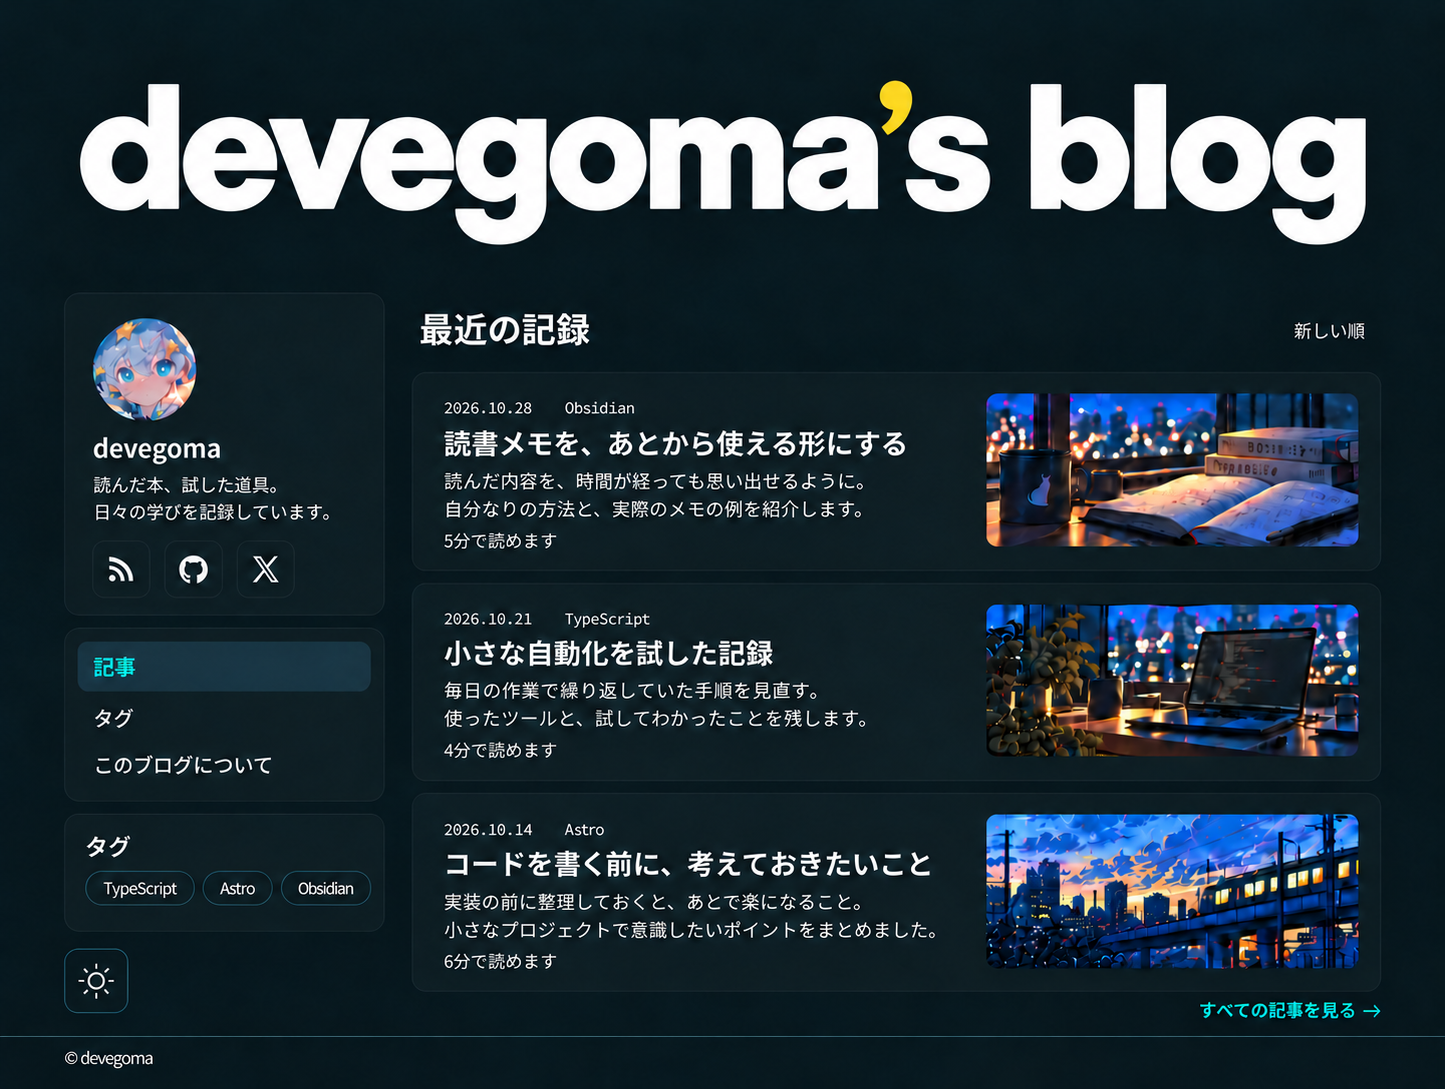
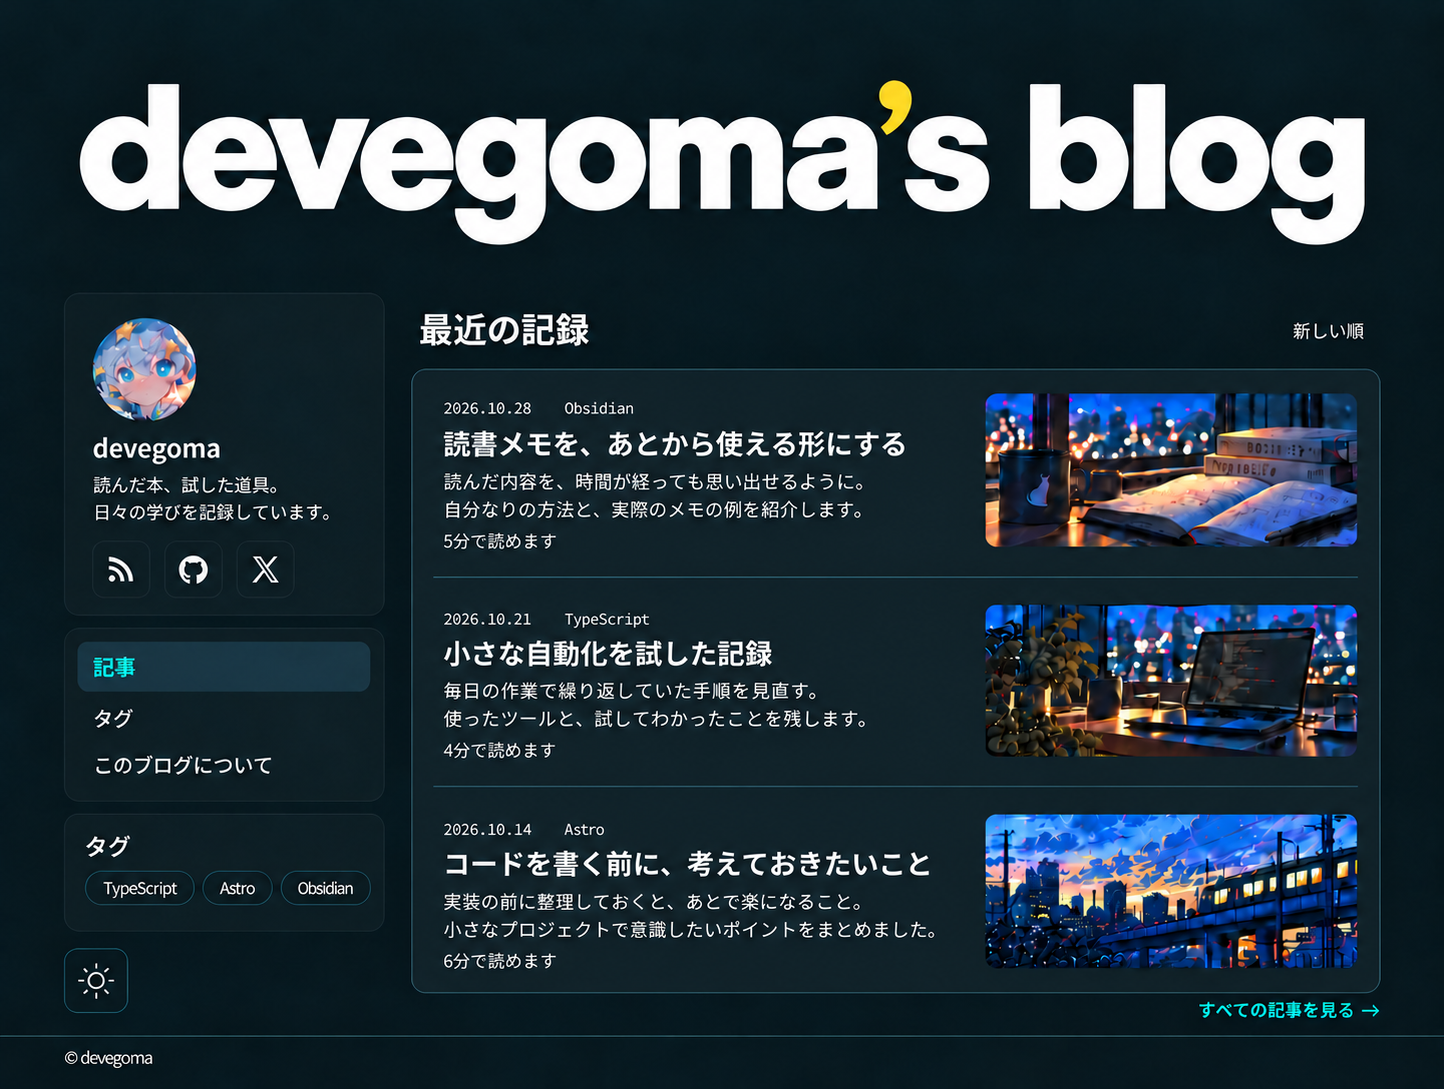
docs: finalize home design with unified article list

diff --git a/docs/design/README.md b/docs/design/README.md
@@ -4,13 +4,13 @@
 
 ## ホーム画面（確定）
 
-2026-10-29 に、PC のライト・ダーク配色、太いサンセリフ体のロゴ、タグ欄の下の切り替えボタンを以下の画像にまとめた。ライト配色は暫定採用。モバイル画像は以前のロゴを含む配置の基準であり、新ロゴと切り替えボタンの反映は未実施。
+2026-10-29 に、PC のライト・ダーク配色、太いサンセリフ体のロゴ、タグ欄の下の切り替えボタン、共通背景と罫線による記事一覧を以下の画像で確定した。モバイル画像は以前のロゴ・個別カードを含む配置の基準であり、新ロゴ・共通背景・切り替えボタンの反映は未実施。
 
-| 表示                   | 確定画像                                      |
-| ---------------------- | --------------------------------------------- |
-| PC・ダーク             | [desktop-dark.png](./home/desktop-dark.png)   |
-| モバイル・ダーク       | [mobile.png](./home/mobile.png)               |
-| PC・ライト（暫定採用） | [desktop-light.png](./home/desktop-light.png) |
+| 表示             | 確定画像                                      |
+| ---------------- | --------------------------------------------- |
+| PC・ダーク       | [desktop-dark.png](./home/desktop-dark.png)   |
+| モバイル・ダーク | [mobile.png](./home/mobile.png)               |
+| PC・ライト       | [desktop-light.png](./home/desktop-light.png) |
 
 ### 共通
 
@@ -20,6 +20,8 @@
 - 本文は DM Sans + Noto Sans JP、日付などのメタ情報は IBM Plex Mono を使用する。日本語の見出しを欧文ロゴと同じサイズにしない。
 - RSS・GitHub・X の3リンクをショートプロフィール内にまとめる。表示はアイコンのみで、文字ラベルを付けない。実装では各リンクにアクセシブル名を設定する。
 - 記事は新しい順。タグを手がかりに記事を探せる構成とする。
+- 記事一覧の背景は一枚の連続した面にまとめ、各記事の間を細い横罫線で区切る。記事ごとの外枠・角丸・カード間の隙間は設けず、一覧全体の外枠と角丸だけを使用する。各記事には十分な上下余白を設ける。
+- ライト表示の記事一覧は白い共通背景と薄いブルーグレーの罫線、ダーク表示はチャコールの共通背景と控えめなブルーグレーの罫線を使用する。サイドバーのプロフィール・ナビゲーション・タグは独立したカードを維持する。
 
 ### PC
 
@@ -42,7 +44,7 @@
 - モバイルでの配置は未確定。
 - ライト表示中は月アイコン、ダーク表示中は太陽アイコンを表示する。実装では「ダークモードに切り替える」「ライトモードに切り替える」のように操作先を示すアクセシブル名を付ける。
 - ボタンはキーボードで操作でき、フォーカス位置が見えるようにする。タップ領域は44px以上を目安とする。
-- PC の配置はタグ欄の下で決定。ボタンの形状、初回表示のモードと選択の保存方法は未確定。ライトのモバイル画像は未作成。
+- PC の配置と形状は確定画像を基準とする。初回表示のモードと選択の保存方法は未確定。ライトのモバイル画像は未作成。
 
 ### ロゴ単体ファイル
 
@@ -53,6 +55,8 @@
 - 画像はデザイン素材。SVG のパスデータやフォントファイルは含まない。
 
 ### 実装との区別
+
+最終 PC 画像は組み込みの ImageGen で「既存のロゴ・サイドバー・記事内容・サムネイル・タグ下の切り替えボタンを維持し、記事一覧だけを一枚の共通背景にまとめ、記事間を2本の細い横罫線で区切る」と指示し、ライト・ダークを個別に生成した。
 
 画像は画面デザインの基準であり、サイト実装の完了を示さない。記事タイトル・日付・説明文は表示確認用のサンプル。正式なプロフィール文、アバターの元データ、各リンク先 URL は公開準備時に確認する。
 

diff --git a/docs/open-items.md b/docs/open-items.md
@@ -17,12 +17,12 @@
 
 ## 今後決める仕様・公開内容
 
-| 項目         | 未確定の内容                                                                                                                                                             | 決める時点                           |
-| ------------ | ------------------------------------------------------------------------------------------------------------------------------------------------------------------------ | ------------------------------------ |
-| 見た目       | [ホームのダーク配色は確定、ライト配色は暫定採用](./design/README.md)。切り替えボタンの見た目、初回表示のモード・選択の保存方法、他画面のデザイン、アイキャッチ画像の扱い | 画面デザイン検討・テーマ調整時       |
-| プロフィール | 自己紹介文、アバターの元データ、RSS・GitHub・X のリンク先 URL。3リンクはプロフィール内にアイコンのみで表示することが確定                                                 | テーマ設定・公開準備時               |
-| SNS 用画像   | 共通画像1枚の具体的な素材とデザイン                                                                                                                                      | 公開準備時                           |
-| 公開時期     | 初回公開の予定日                                                                                                                                                         | テーマ選定後に作業範囲を踏まえて検討 |
+| 項目         | 未確定の内容                                                                                                                                                                                                   | 決める時点                           |
+| ------------ | -------------------------------------------------------------------------------------------------------------------------------------------------------------------------------------------------------------- | ------------------------------------ |
+| 見た目       | [ホームのライト・ダーク配色と PC の見た目は確定](./design/README.md)。モバイル画像への新ロゴ・共通背景の反映と切り替えボタンの配置、初回表示のモード・選択の保存方法、他画面のデザイン、アイキャッチ画像の扱い | 画面デザイン検討・テーマ調整時       |
+| プロフィール | 自己紹介文、アバターの元データ、RSS・GitHub・X のリンク先 URL。3リンクはプロフィール内にアイコンのみで表示することが確定                                                                                       | テーマ設定・公開準備時               |
+| SNS 用画像   | 共通画像1枚の具体的な素材とデザイン                                                                                                                                                                            | 公開準備時                           |
+| 公開時期     | 初回公開の予定日                                                                                                                                                                                               | テーマ選定後に作業範囲を踏まえて検討 |
 
 サイト名は devegoma's blog、公開 URL は https://blog.devegoma.com/ に決定済み。
 記事 URL は /posts/<固定名>/、日付は YYYY-MM-DD・日本時間に決定済み。
